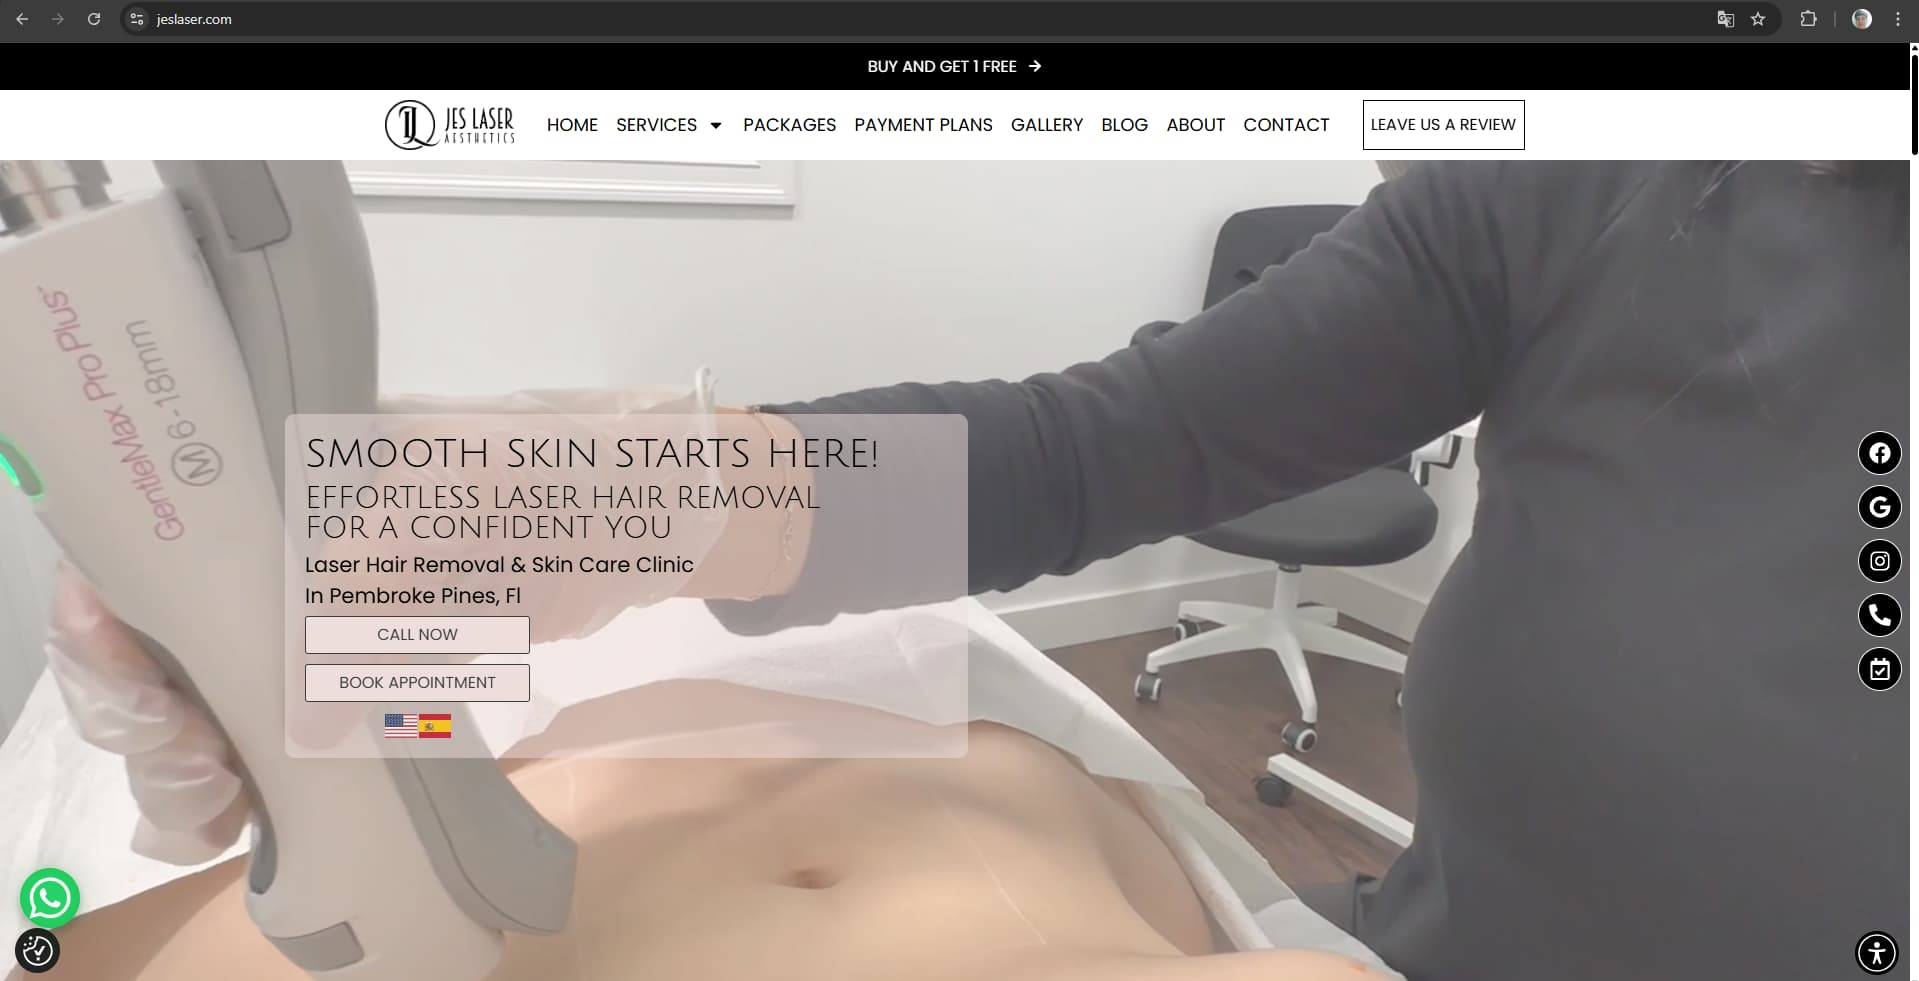
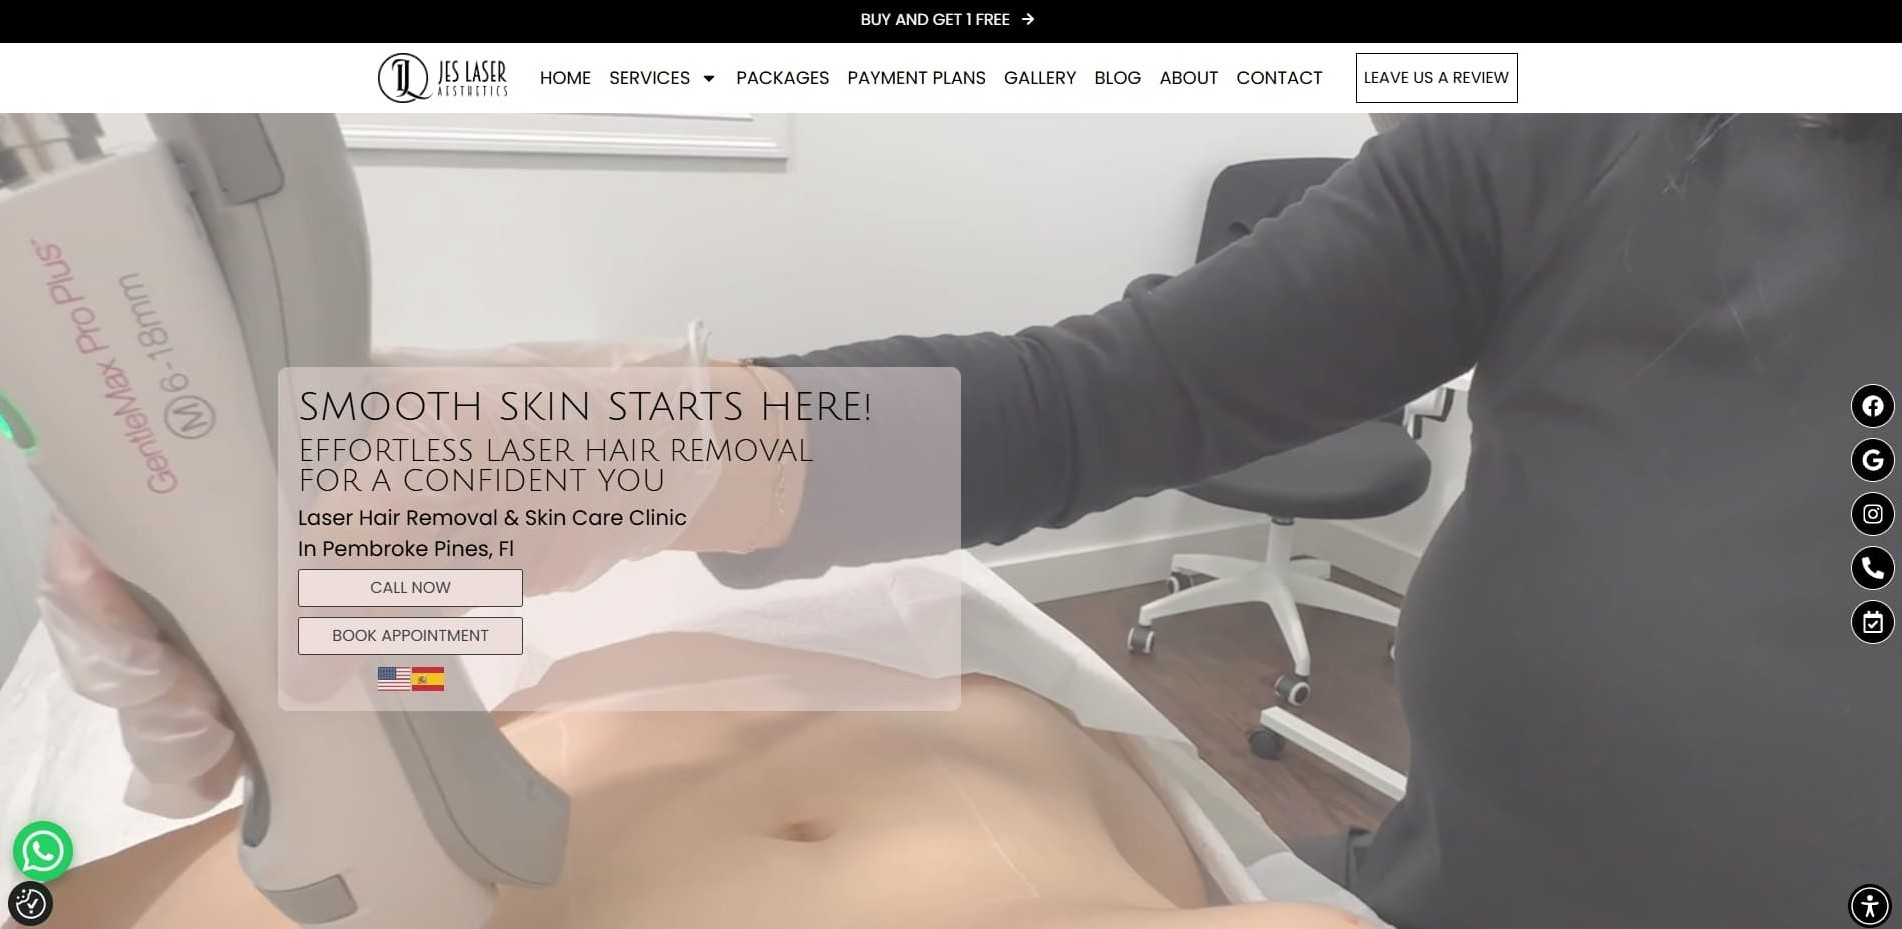
Refactor Img Jeslaser

diff --git a/src/components/Proyect.jsx b/src/components/Proyect.jsx
@@ -6,7 +6,7 @@ const info = [
     name: "JesLaser",
     category: "Clínica de Depilación Láser y Cuidado Facial",
     text: "JesLaser es un centro especializado en depilación láser y tratamientos faciales. En este proyecto desarrollé un sitio web moderno, minimalista y centrado en la experiencia del usuario. Mi objetivo fue facilitar la reserva de turnos, presentar los servicios de manera clara y generar confianza en nuevos visitantes.",
-    img: "/captura-jeslaser.jpg",
+    img: "/proyecto-jeslaser.jpg",
     url: "https://www.jeslaser.com/",
     link:"Laser-Hair-Removal"
   },
